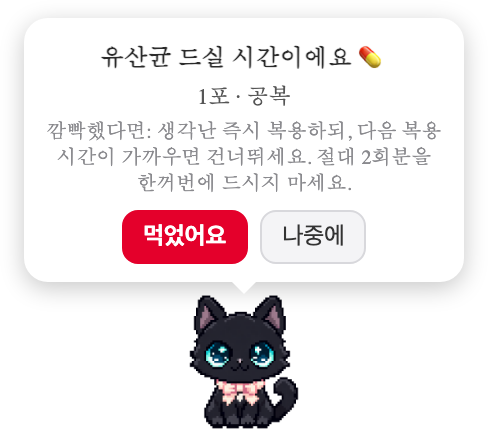
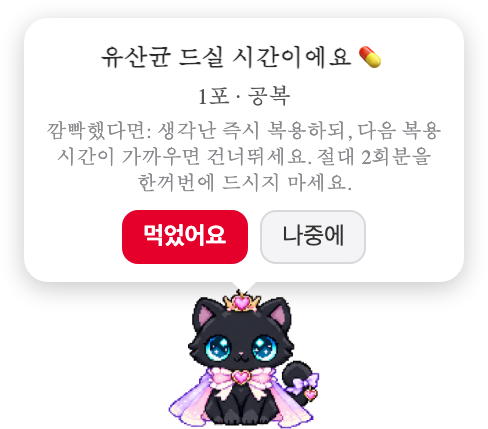
feat: HOW TO 캡처 3종 펫 다양화(기본냥·5단계냥·용용퐁5) + 표시 크기 원본 비율 고정

Changed region(s): [[0.3381, 0.6667, 0.6762, 1.0]]

diff --git a/site/index.html b/site/index.html
@@ -277,7 +277,7 @@
       .ht-btn { font-size: 13px; border: 3px solid var(--ink); padding: 6px 14px; background: #fff; font-weight: 800; }
       .ht-btn--ok { background: var(--red); color: #fff; }
       .ht-cap { margin-top: 16px; font-size: 12.5px; color: var(--ink2); text-align: center; }
-      .ht-shot { display: block; margin: 0 auto; max-width: 78%; max-height: 300px; object-fit: contain; image-rendering: auto; }
+      .ht-shot { display: block; margin: 0 auto; max-width: 85%; object-fit: contain; image-rendering: auto; }
       .ht-steps { display: flex; flex-direction: column; gap: 10px; }
       .ht-step {
         display: flex; gap: 14px; align-items: center; background: #fff;
@@ -435,7 +435,7 @@
       <p class="secsub">케어퐁은 키보드·마우스의 리듬으로 스트레스를 느껴요. 받은 스트레스를 케어퐁에서 바로 해소해보세요.</p>
       <div class="ht-wrap">
         <div class="ht-mock">
-          <img class="ht-shot" src="shots/shot-stress.png" alt="스트레스 확인 화면" />
+          <img class="ht-shot" src="shots/shot-stress.png" alt="스트레스 확인 화면" style="width: 233px" />
           <p class="ht-cap">▲ 실제 화면 — 지쳐갈 때, 펫이 조심스럽게 물어봐요</p>
         </div>
         <div class="ht-steps">
@@ -451,7 +451,7 @@
       <p class="secsub">등록만 해두면, 시간마다 케어퐁이 바탕화면에서 말을 걸어요.</p>
       <div class="ht-wrap">
         <div class="ht-mock">
-          <img class="ht-shot" src="shots/shot-med.png" alt="복약 알림 화면" />
+          <img class="ht-shot" src="shots/shot-med.png" alt="복약 알림 화면" style="width: 244px" />
           <p class="ht-cap">▲ 실제 화면 — 시간이 되면 펫 머리 위로 뜨는 말풍선</p>
         </div>
         <div class="ht-steps">
@@ -467,7 +467,7 @@
       <p class="secsub">하루 권장 수분 섭취량은 약 8잔(1.5~2L)<br/>꾸준히 마시면 집중력과 피로 회복에 큰 도움이 돼요.</p>
       <div class="ht-wrap">
         <div class="ht-mock">
-          <img class="ht-shot" src="shots/shot-water.png" alt="물 알림 화면" />
+          <img class="ht-shot" src="shots/shot-water.png" alt="물 알림 화면" style="width: 170px" />
           <p class="ht-cap">▲ 실제 화면 — 90분마다 살짝, 일 방해 없이</p>
         </div>
         <div class="ht-steps">
